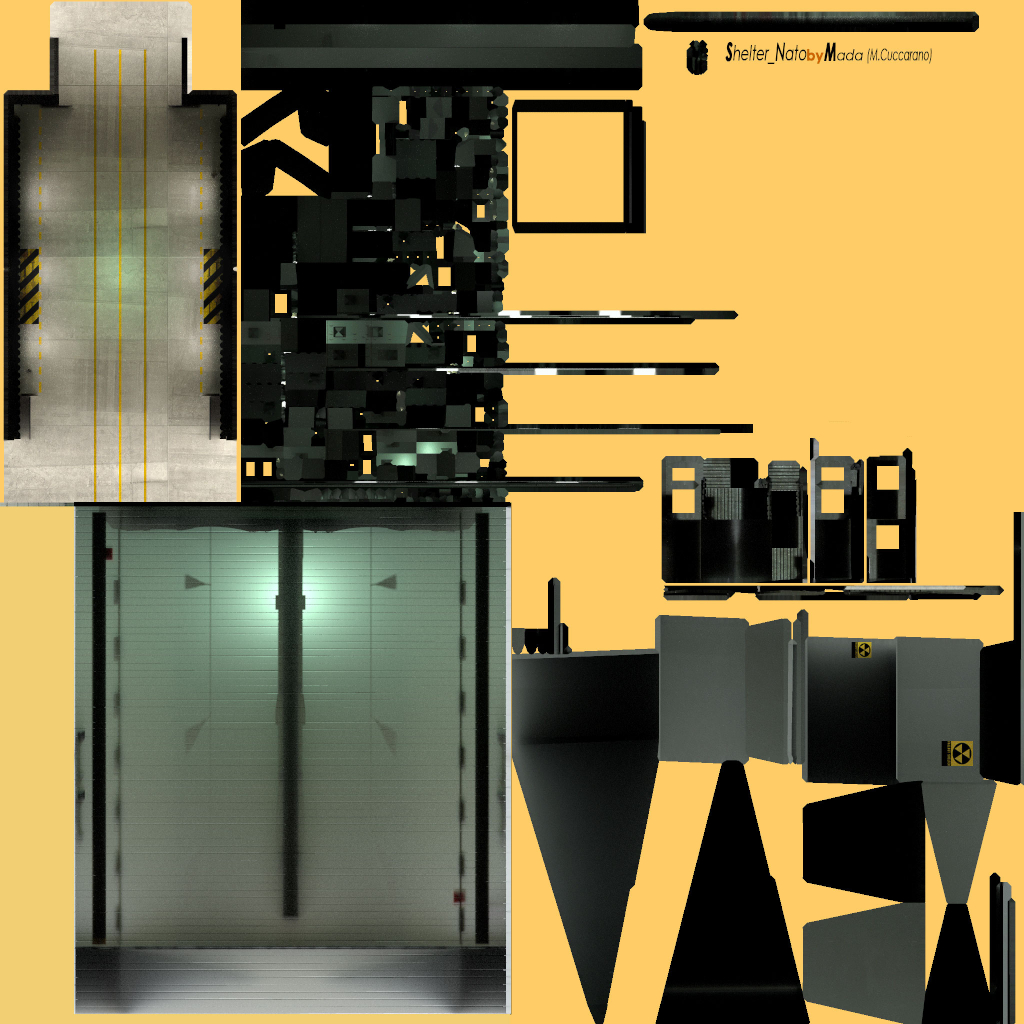
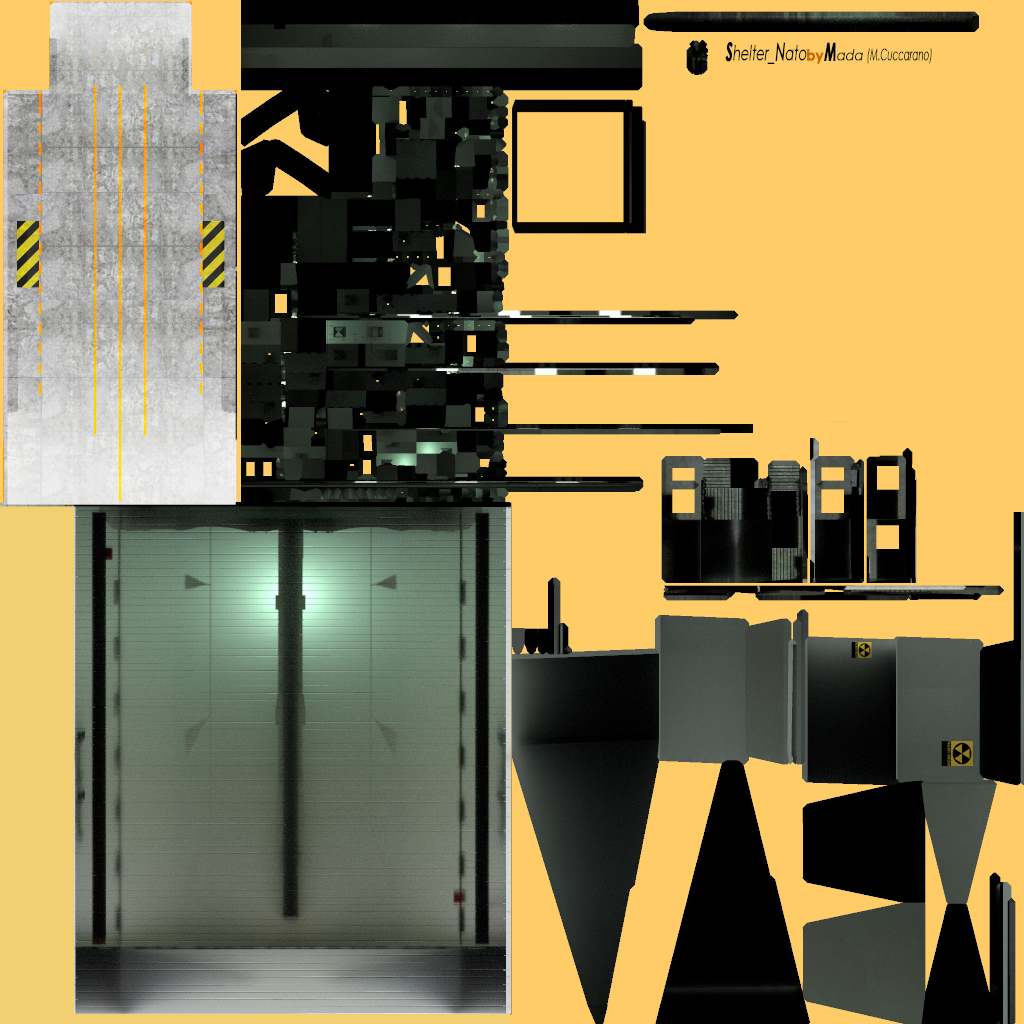
Fixed LIPD, added LIPB twr pos

Changed region(s): [[0.0, 0.0, 0.25, 0.5]]

diff --git a/README.md b/README.md
@@ -5,7 +5,7 @@ Add-on scenery package that improves the already-existing work available on Terr
 Overview
 -------------------------
 This repository contains additional static objects, improved airport data (tower position and elevation, parking positions, etc.) and OSM2city.py pylons for Aviano Air Base (LIPA), nearby airports and surrounding Italian territory and the Aviano-Piancavallo road.
-The following airports are included: LIPA, LIPI, LIPD, LIDK, LIPG, LIPS, LIDB.
+The following airports are included: LIPA, LIPI, LIPD, LIDK, LIPG, LIPS, LIDB, LIPB.
 
 Installation instructions
 -------------------------
